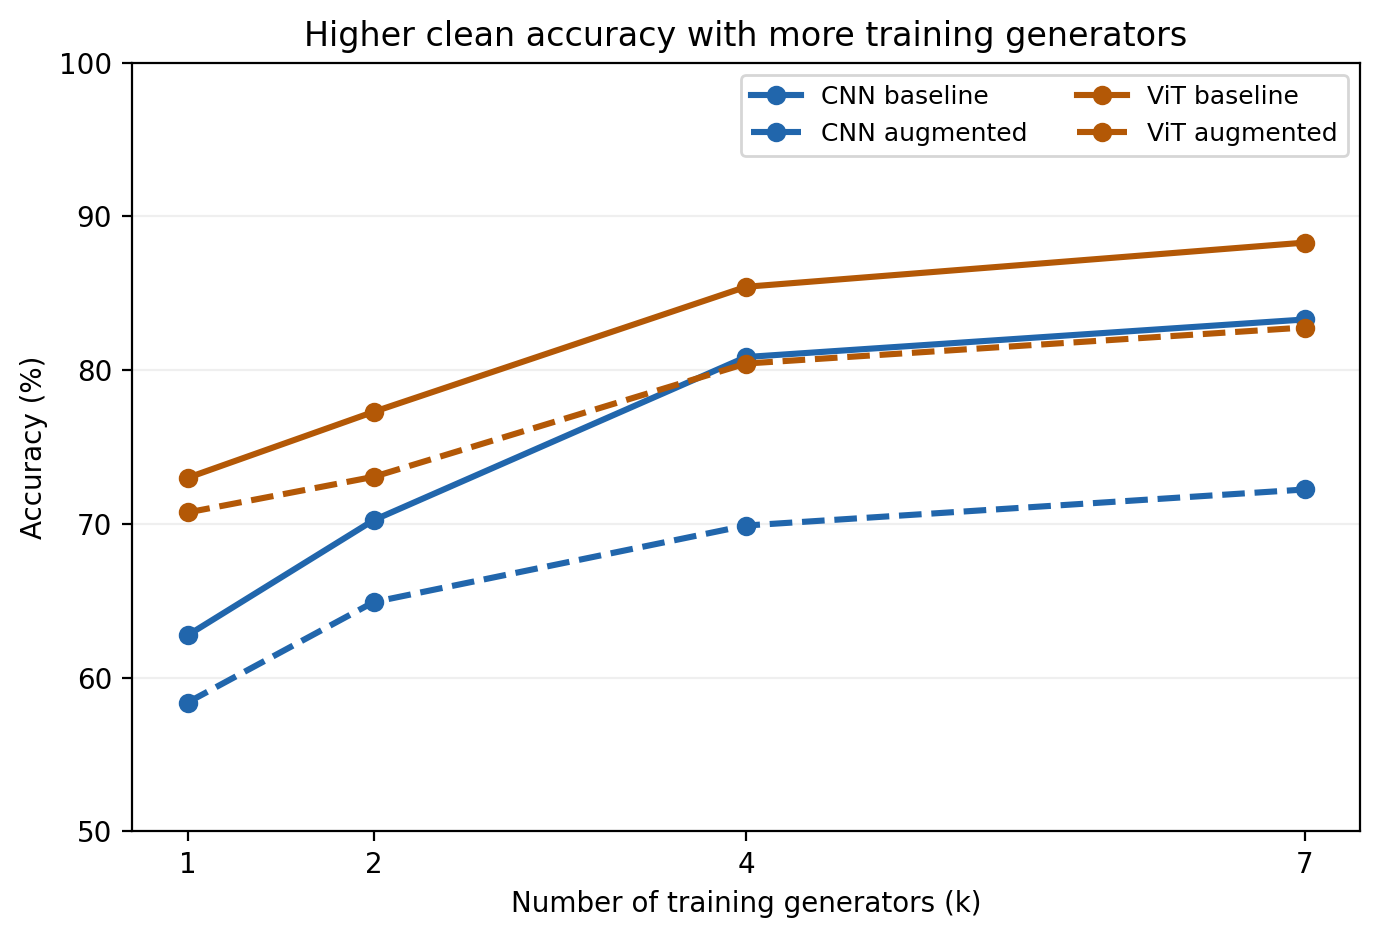
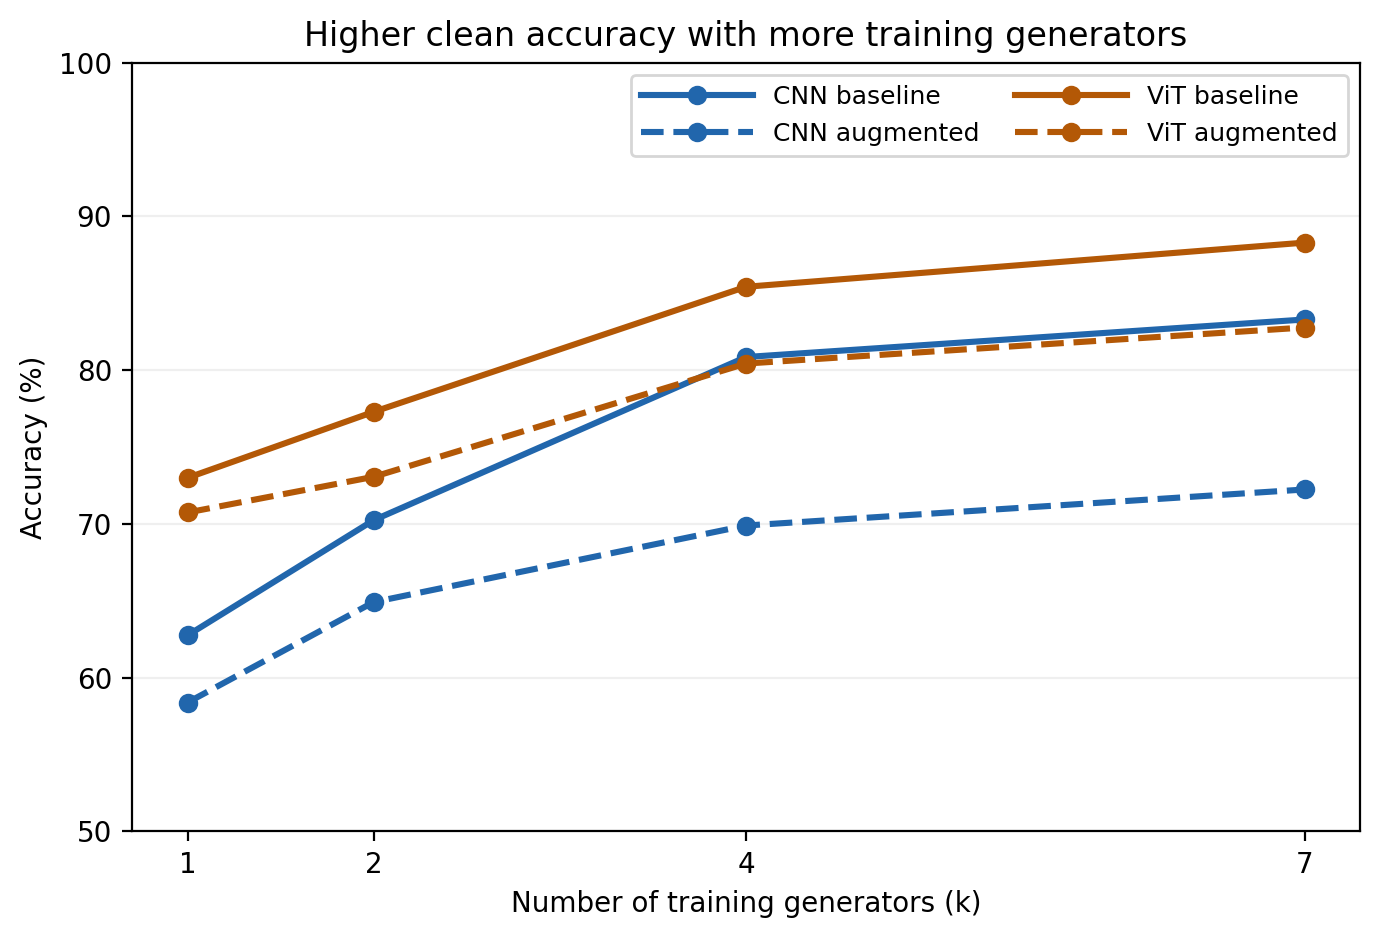
Make poster chart line styles clear

Changed region(s): [[0.4362, 0.0618, 0.8101, 0.1855]]

diff --git a/results/df40_transfer/poster_assets/build_figures.py b/results/df40_transfer/poster_assets/build_figures.py
@@ -33,7 +33,7 @@ def diversity():
            xlabel='Number of training generators (k)', ylabel='Accuracy (%)', ylim=(50, 100))
     ax.set_xticks([1, 2, 4, 7])
     ax.grid(axis='y', alpha=.2)
-    ax.legend(ncol=2, fontsize=9)
+    ax.legend(ncol=2, fontsize=9, handlelength=4.5, columnspacing=1.4)
     save(fig, '01_generator_diversity')
 
 
